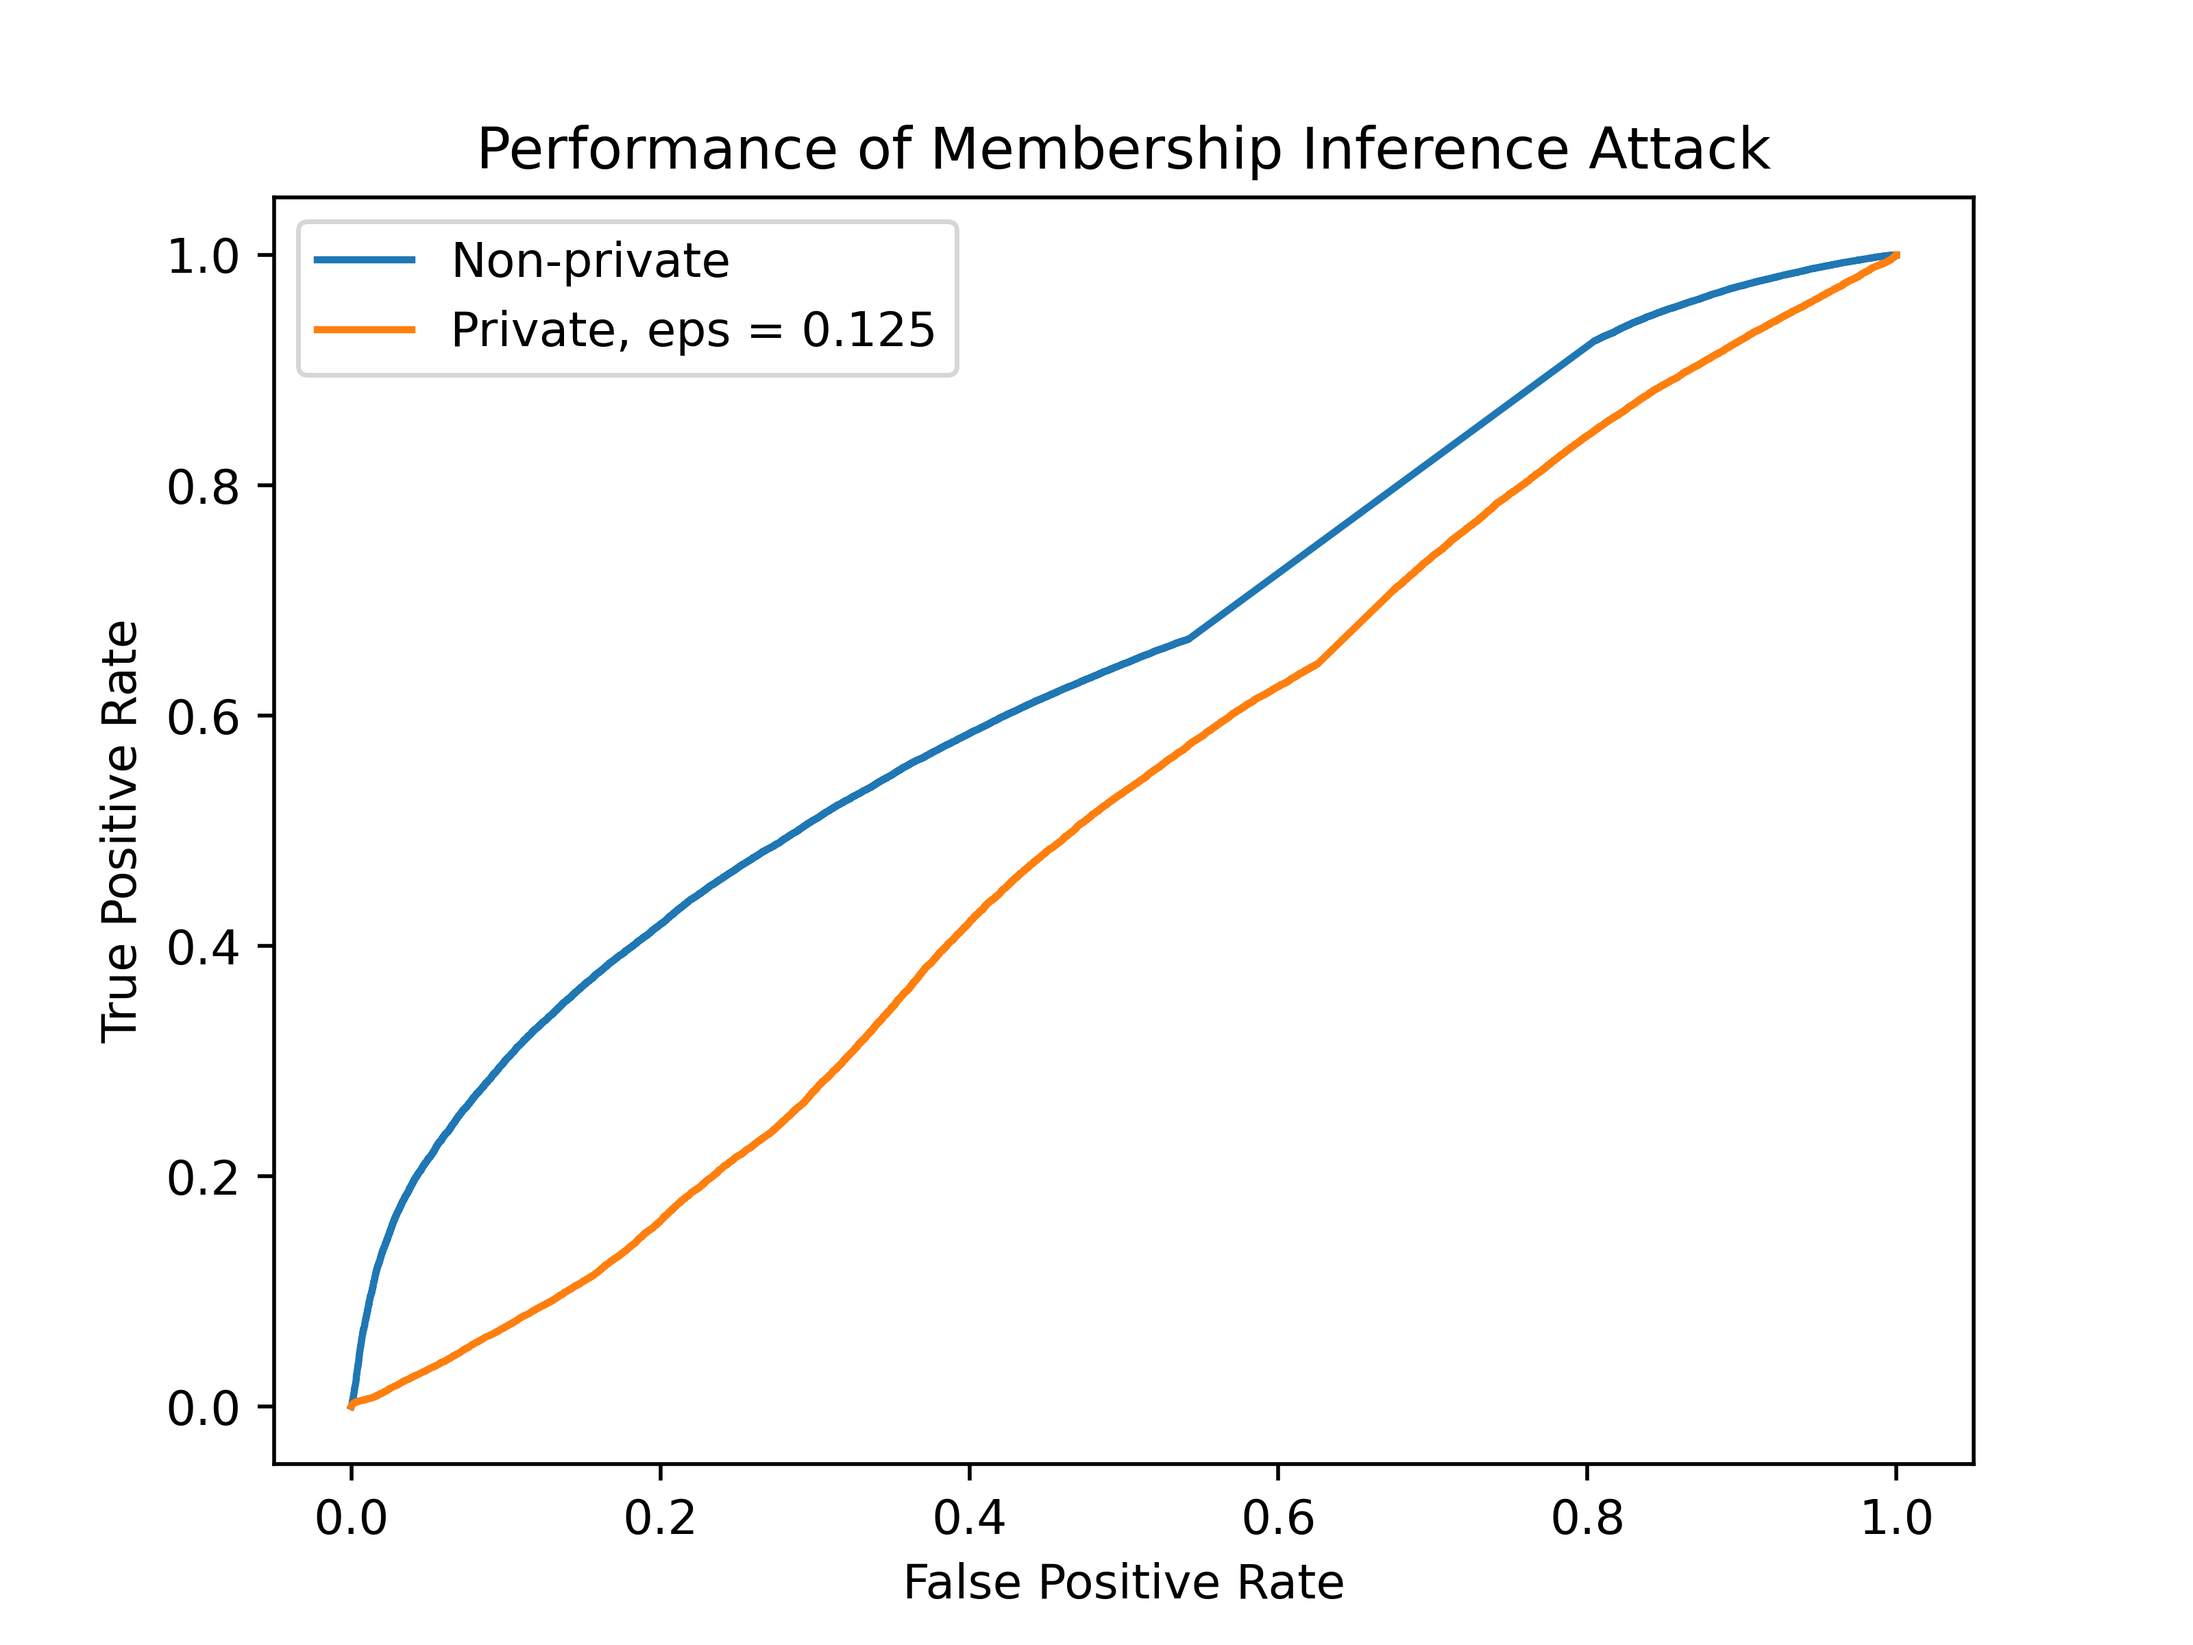
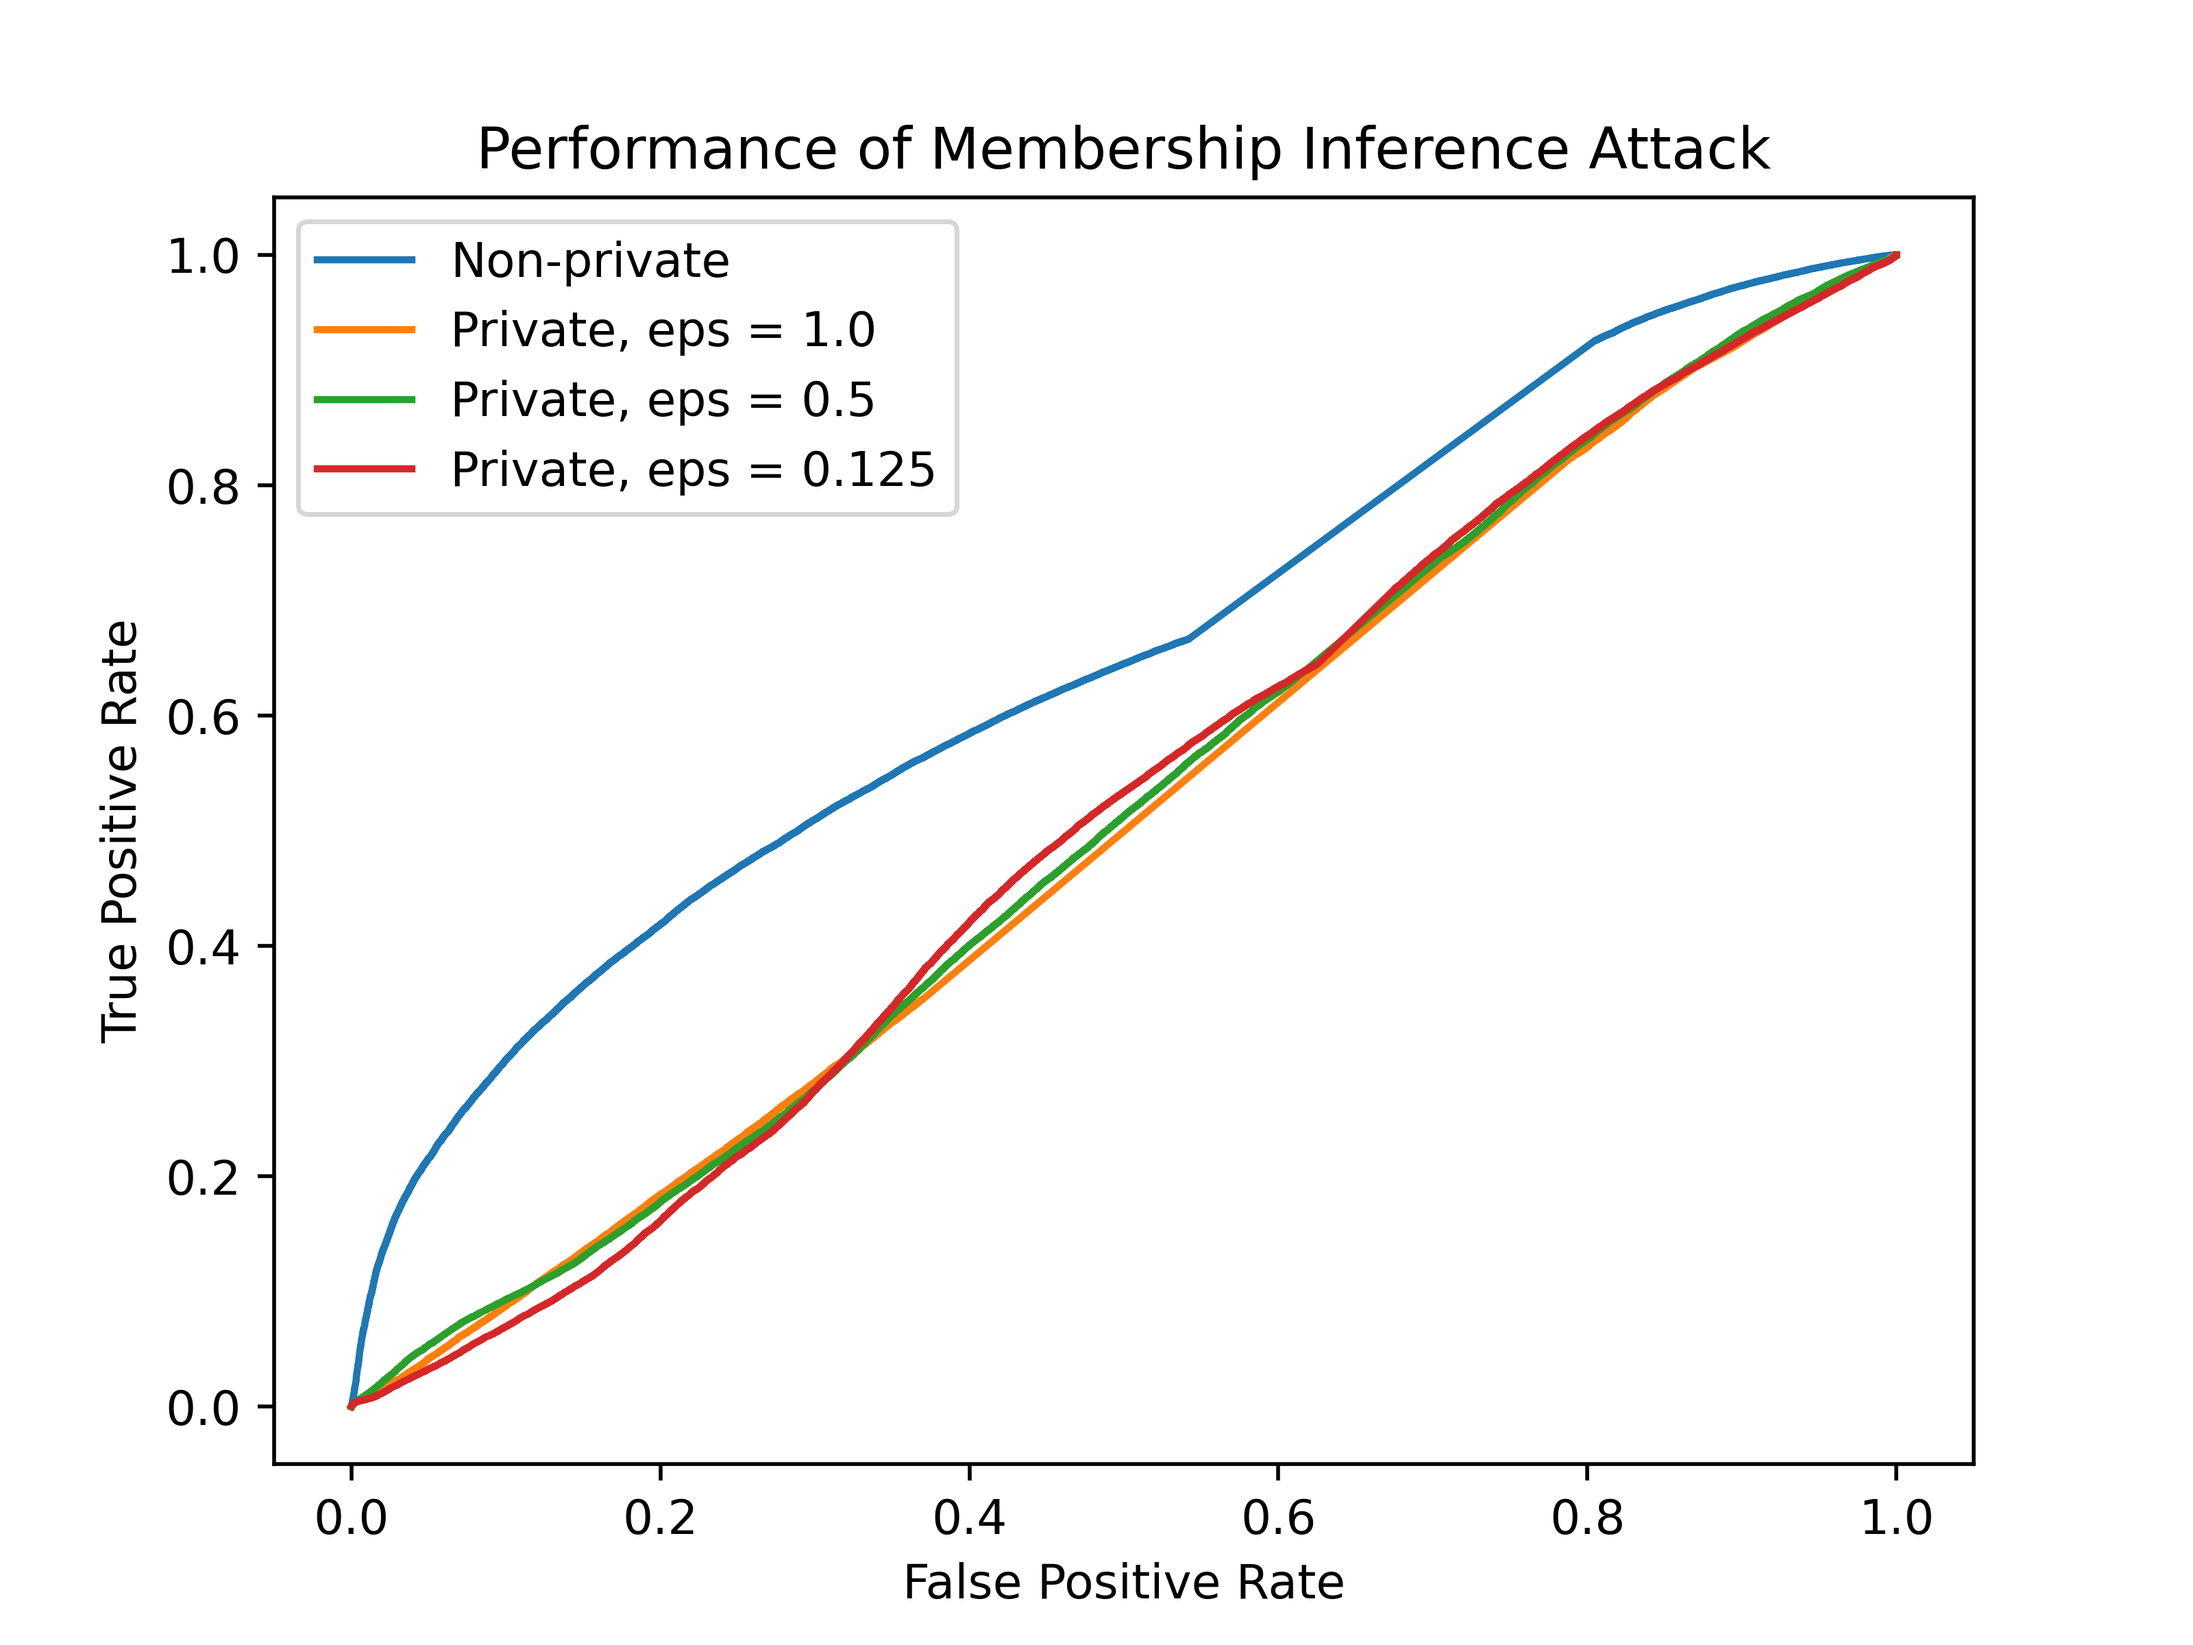
Add MIA performance in low FPR and high TPR regions

diff --git a/repro_visual.py b/repro_visual.py
@@ -31,7 +31,7 @@ def generate_test_acc_plot(
 def generate_mia_roc_plot(
     exp_data_dir, non_private_exp_id, 
     private_exp_ids, legend_labels, 
-    filename
+    filename, focus_region=None
 ):
     fig, ax = plt.subplots()
 
@@ -46,13 +46,36 @@ def generate_mia_roc_plot(
         data = np.load(mia_roc_data_filepath)
         fpr = data["fpr"]
         tpr = data["tpr"]
+
         ax.plot(fpr, tpr, label=label)
 
-    ax.set_title(f"Performance of Membership Inference Attack")
-    ax.set_xlabel("False Positive Rate")
-    ax.set_ylabel("True Positive Rate")
+        if focus_region is not None:
+            if focus_region == "Low FPR":
+                ax.set_yscale("log")
+                ax.set_xscale("log")
+                ax.set_ylim([1e-4, 1])
+                ax.set_xlim([1e-4, 1])
+            elif focus_region == "High TPR":
+                ax.set_ylim([0.7, 1])
+                ax.set_xlim([0.5, 1])
+
+    title = "Performance of Membership Inference Attack"
+    if focus_region is not None:
+        title = f"{title} ({focus_region} Region)"
+    ax.set_title(title)
+
+    if focus_region == "Low FPR":
+        ax.set_xlabel("False Positive Rate (log-scale)")
+        ax.set_ylabel("True Positive Rate (log-scale)")
+    else:
+        ax.set_xlabel("False Positive Rate")
+        ax.set_ylabel("True Positive Rate")
 
     ax.legend()
+
+    if focus_region is not None:
+        filename = filename + "_" + str(focus_region).lower().replace(" ", "_")
+
     plt.savefig(filename, dpi=500)
 
 
@@ -101,16 +124,16 @@ if __name__ == "__main__":
 
     ################################ MIA PERFORMANCE ################################
     legend_labels = [
-        "Non-private", 
-        # "Private, eps = 1.0", 
-        # "Private, eps = 0.5", 
+        "Non-private",
+        "Private, eps = 1.0",
+        "Private, eps = 0.5",
         "Private, eps = 0.125"
     ]
 
     non_private_simple_nn_exp_id = "simple_nn_epochs5_eps0_125_delta1e_5_clipnorm1.0"
     private_simple_nn_exp_ids = [
-        # "simple_nn_epochs5_eps1_0_delta1e_5_clipnorm1.0",
-        # "simple_nn_epochs5_eps0_5_delta1e_5_clipnorm1.0",
+        "simple_nn_epochs5_eps1_0_delta1e_5_clipnorm1.0",
+        "simple_nn_epochs5_eps0_5_delta1e_5_clipnorm1.0",
         "simple_nn_epochs5_eps0_125_delta1e_5_clipnorm1.0",
     ]
     simple_nn_filename = f"{exp_data_dir}/plots_data/all_simple_nn_mia"
@@ -123,10 +146,28 @@ if __name__ == "__main__":
         filename=simple_nn_filename
     )
 
+    generate_mia_roc_plot(
+        exp_data_dir=exp_data_dir,
+        non_private_exp_id=non_private_simple_nn_exp_id,
+        private_exp_ids=private_simple_nn_exp_ids,
+        legend_labels=legend_labels,
+        filename=simple_nn_filename,
+        focus_region="Low FPR"
+    )
+
+    generate_mia_roc_plot(
+        exp_data_dir=exp_data_dir,
+        non_private_exp_id=non_private_simple_nn_exp_id,
+        private_exp_ids=private_simple_nn_exp_ids,
+        legend_labels=legend_labels,
+        filename=simple_nn_filename,
+        focus_region="High TPR"
+    )
+
     non_private_cnn_exp_id = "cnn_epochs10_eps0_125_delta1e_5_clipnorm1.0"
     private_cnn_exp_ids = [
-            # "cnn_epochs10_eps1_0_delta1e_5_clipnorm1.0",
-            # "cnn_epochs10_eps0_5_delta1e_5_clipnorm1.0",
+            "cnn_epochs10_eps1_0_delta1e_5_clipnorm1.0",
+            "cnn_epochs10_eps0_5_delta1e_5_clipnorm1.0",
             "cnn_epochs10_eps0_125_delta1e_5_clipnorm1.0",
             ]
     cnn_filename = f"{exp_data_dir}/plots_data/all_cnn_mia"
@@ -137,4 +178,22 @@ if __name__ == "__main__":
         private_exp_ids=private_cnn_exp_ids,
         legend_labels=legend_labels,
         filename=cnn_filename
+    )
+
+    generate_mia_roc_plot(
+        exp_data_dir=exp_data_dir,
+        non_private_exp_id=non_private_cnn_exp_id,
+        private_exp_ids=private_cnn_exp_ids,
+        legend_labels=legend_labels,
+        filename=cnn_filename,
+        focus_region="Low FPR"
+    )
+
+    generate_mia_roc_plot(
+        exp_data_dir=exp_data_dir,
+        non_private_exp_id=non_private_cnn_exp_id,
+        private_exp_ids=private_cnn_exp_ids,
+        legend_labels=legend_labels,
+        filename=cnn_filename,
+        focus_region="High TPR"
     )
